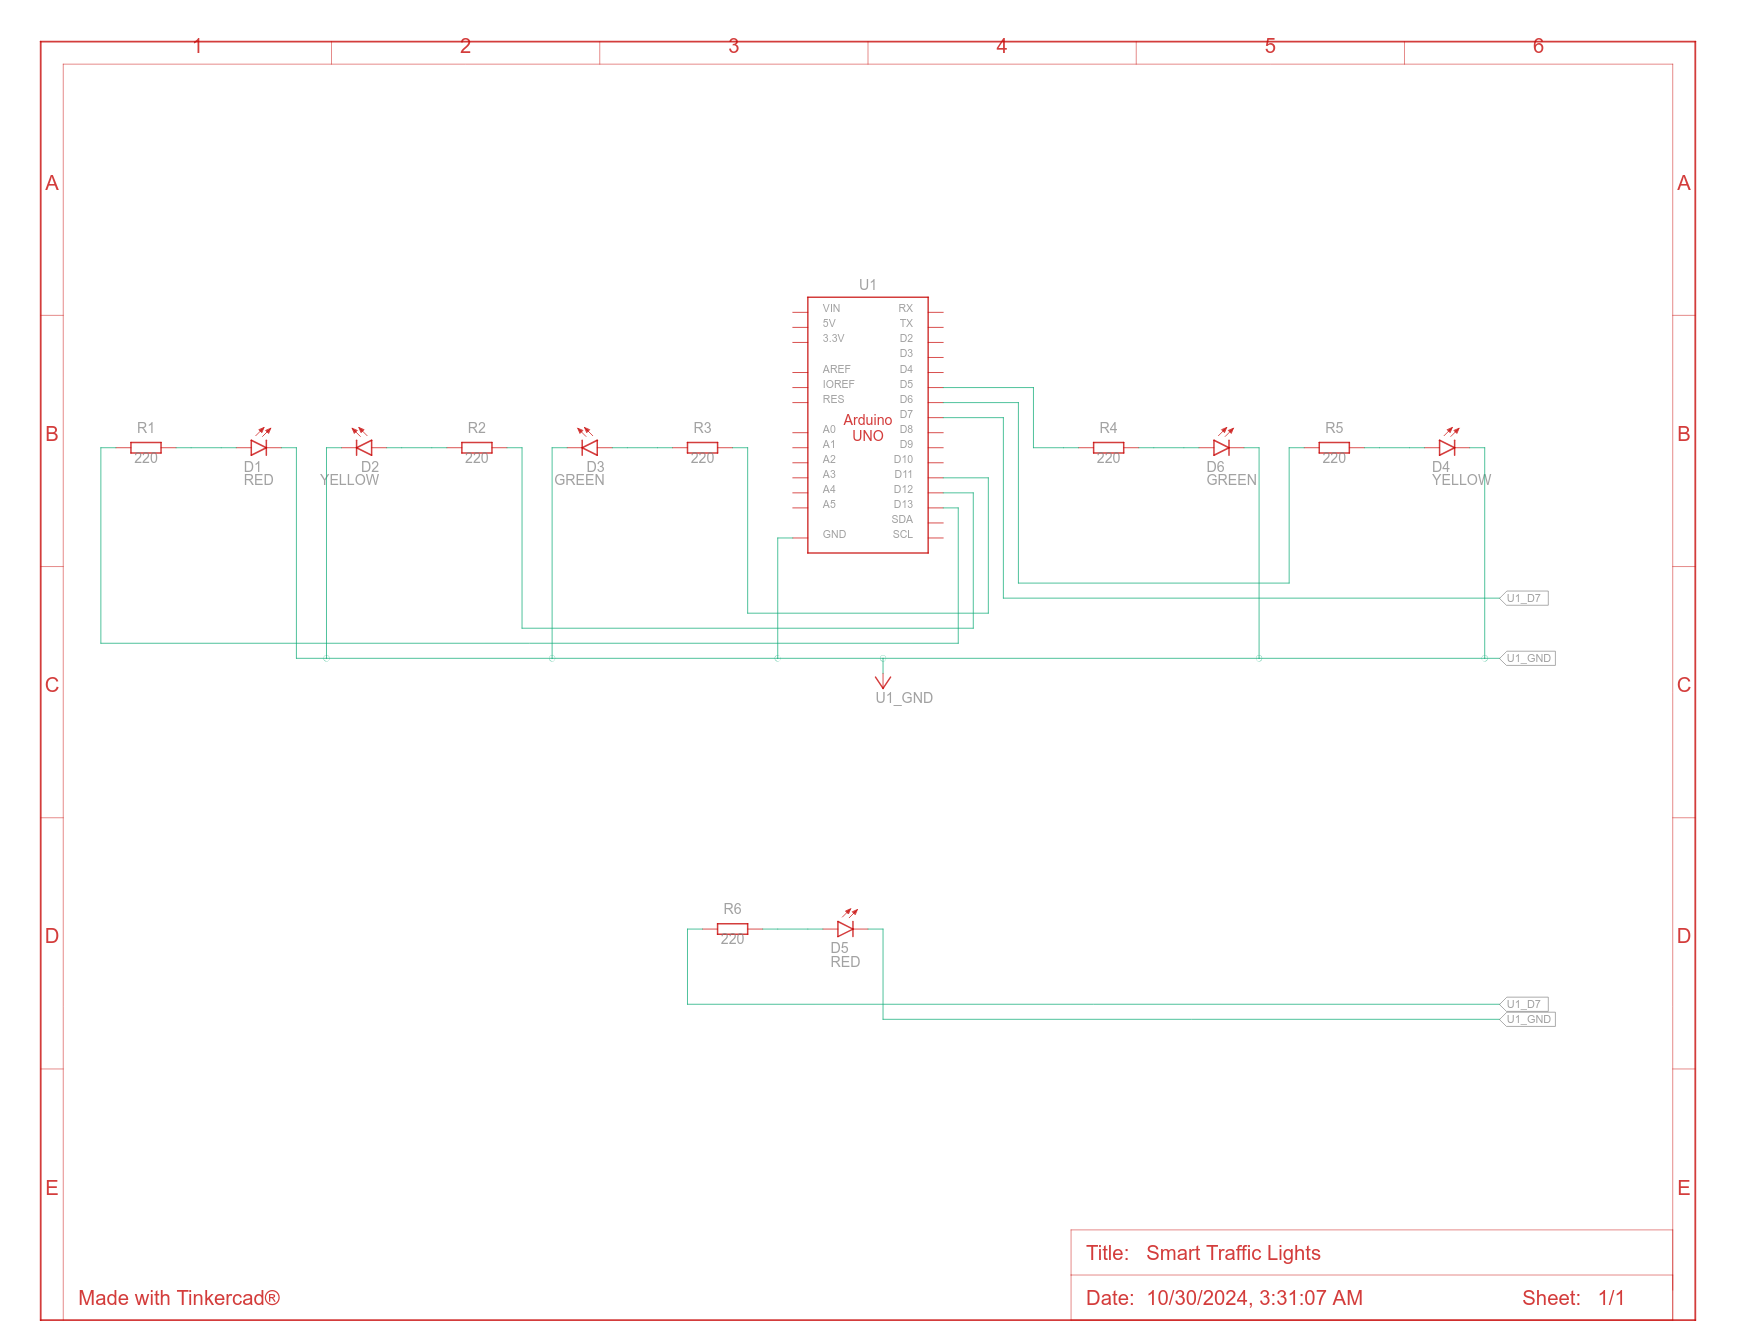
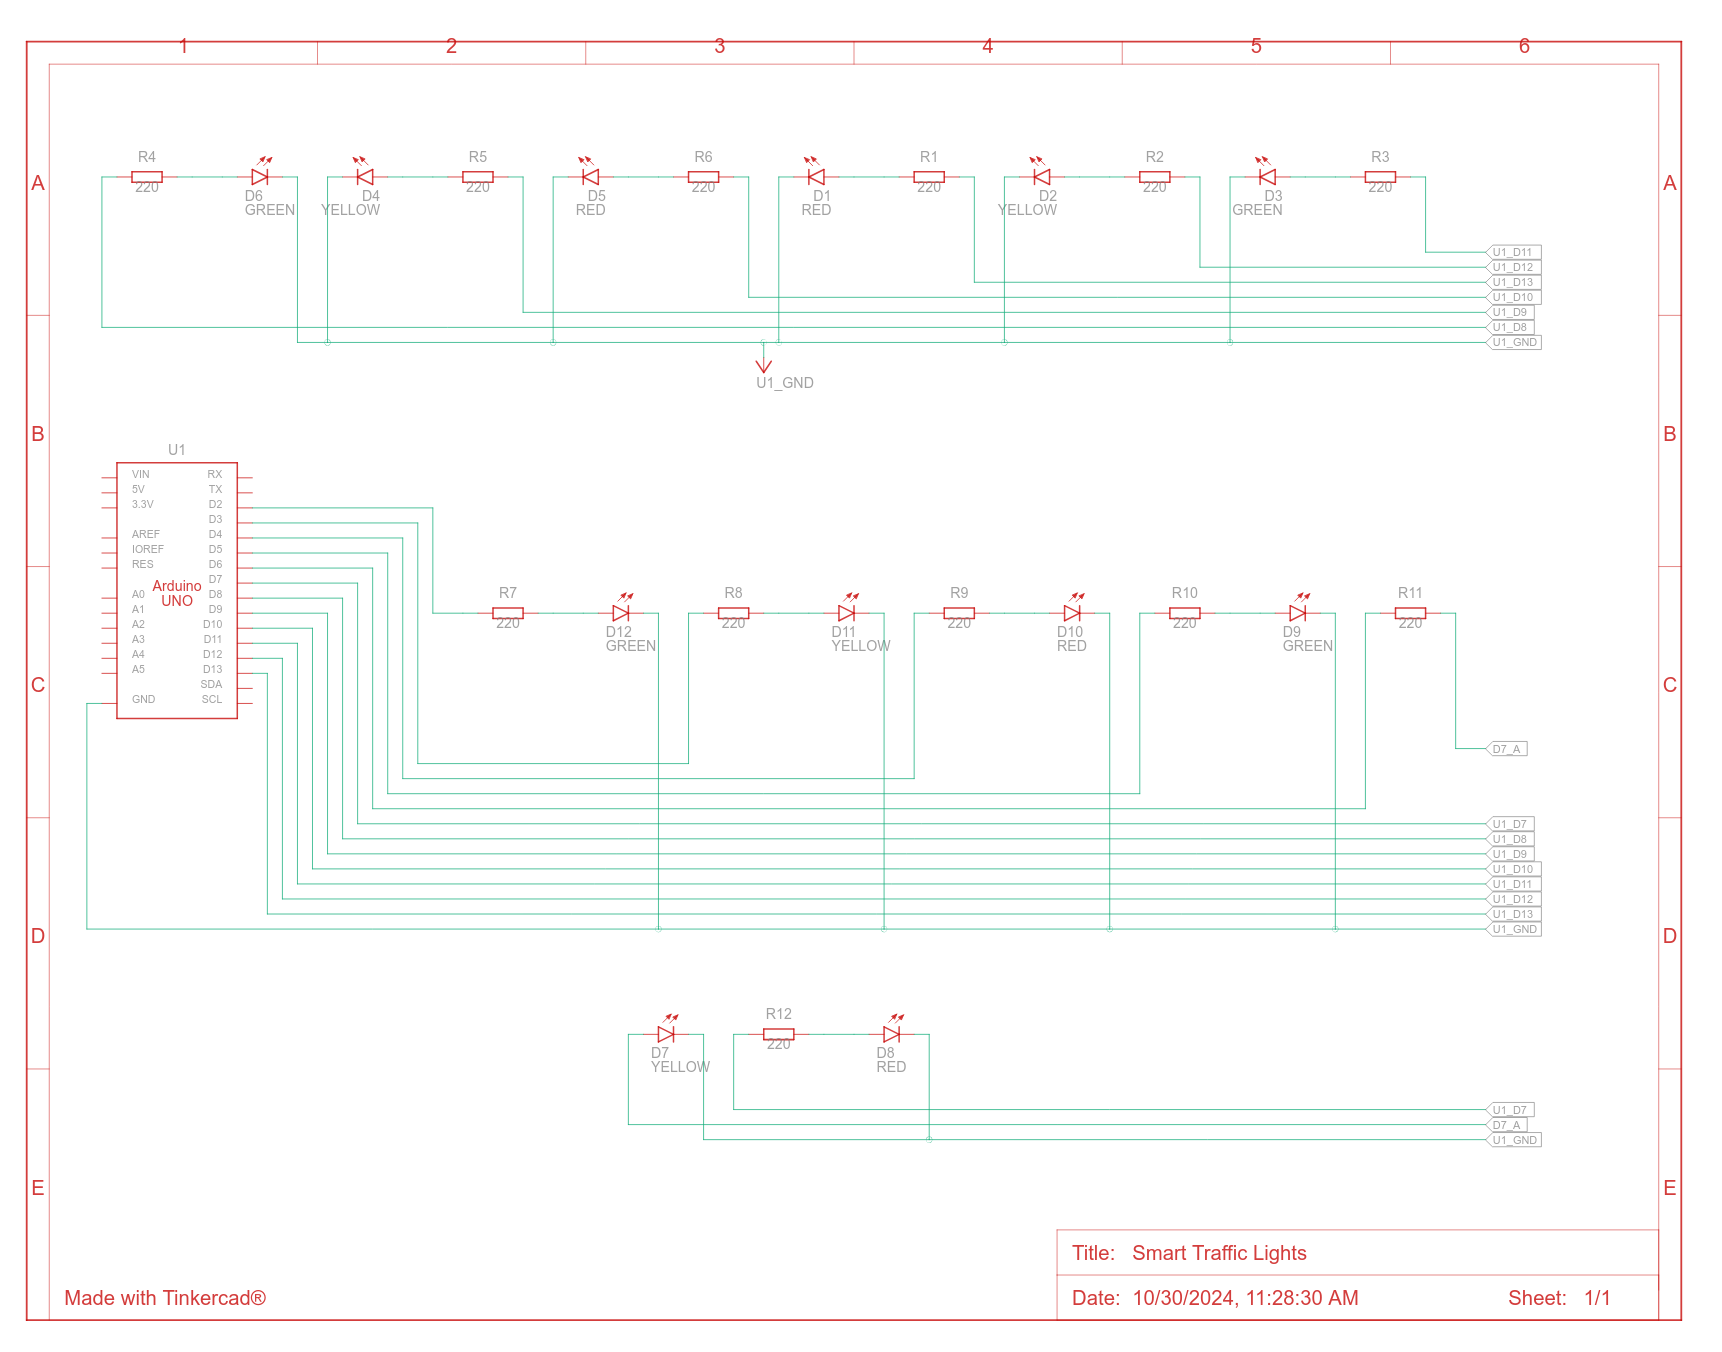
fix: completed list of components & circuit diagram

diff --git a/README.md b/README.md
@@ -6,13 +6,13 @@ A simple Arduino project that simulates a traffic light system using LEDs. This 
 
 Below is the bill of materials (BOM) for this project:
 
-| Name                   | Quantity | Component      |
-|:-----------------------|---------:|:---------------|
-| U1                     |        1 | Arduino Uno R3 |
-| D1, D5                 |        2 | Red LED        |
-| D2, D4                 |        2 | Yellow LED     |
-| D3, D6                 |        2 | Green LED      |
-| R1, R2, R3, R4, R5, R6 |        6 | 220 Ω Resistor |
+| Name                                              | Quantity | Component      |
+|:--------------------------------------------------|---------:|:---------------|
+| U1                                                |        1 | ESP32S         |
+| D5, D1, D8, D10                                   |        4 | Red LED        |
+| D4, D2, D7, D11                                   |        4 | Yellow LED     |
+| D6, D3, D9, D12                                   |        4 | Green LED      |
+| R1, R2, R3, R4, R5, R6, R7, R8, R9, R10, R11, R12 |       12 | 220 Ω Resistor |
 
 ## Circuit Design
 
